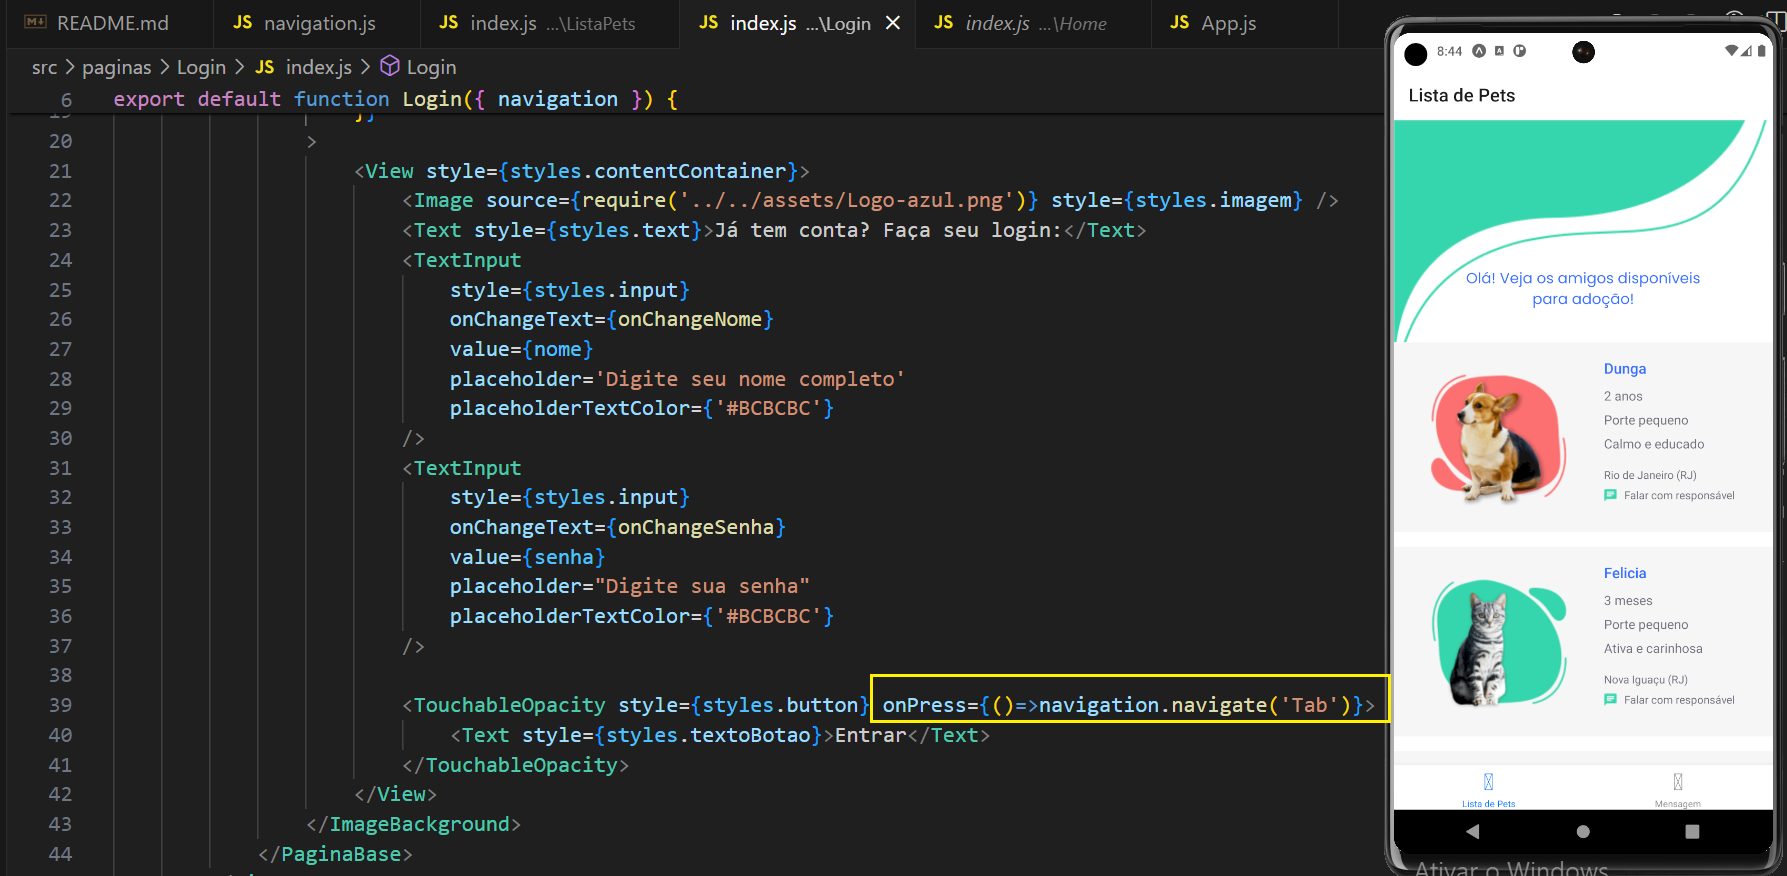
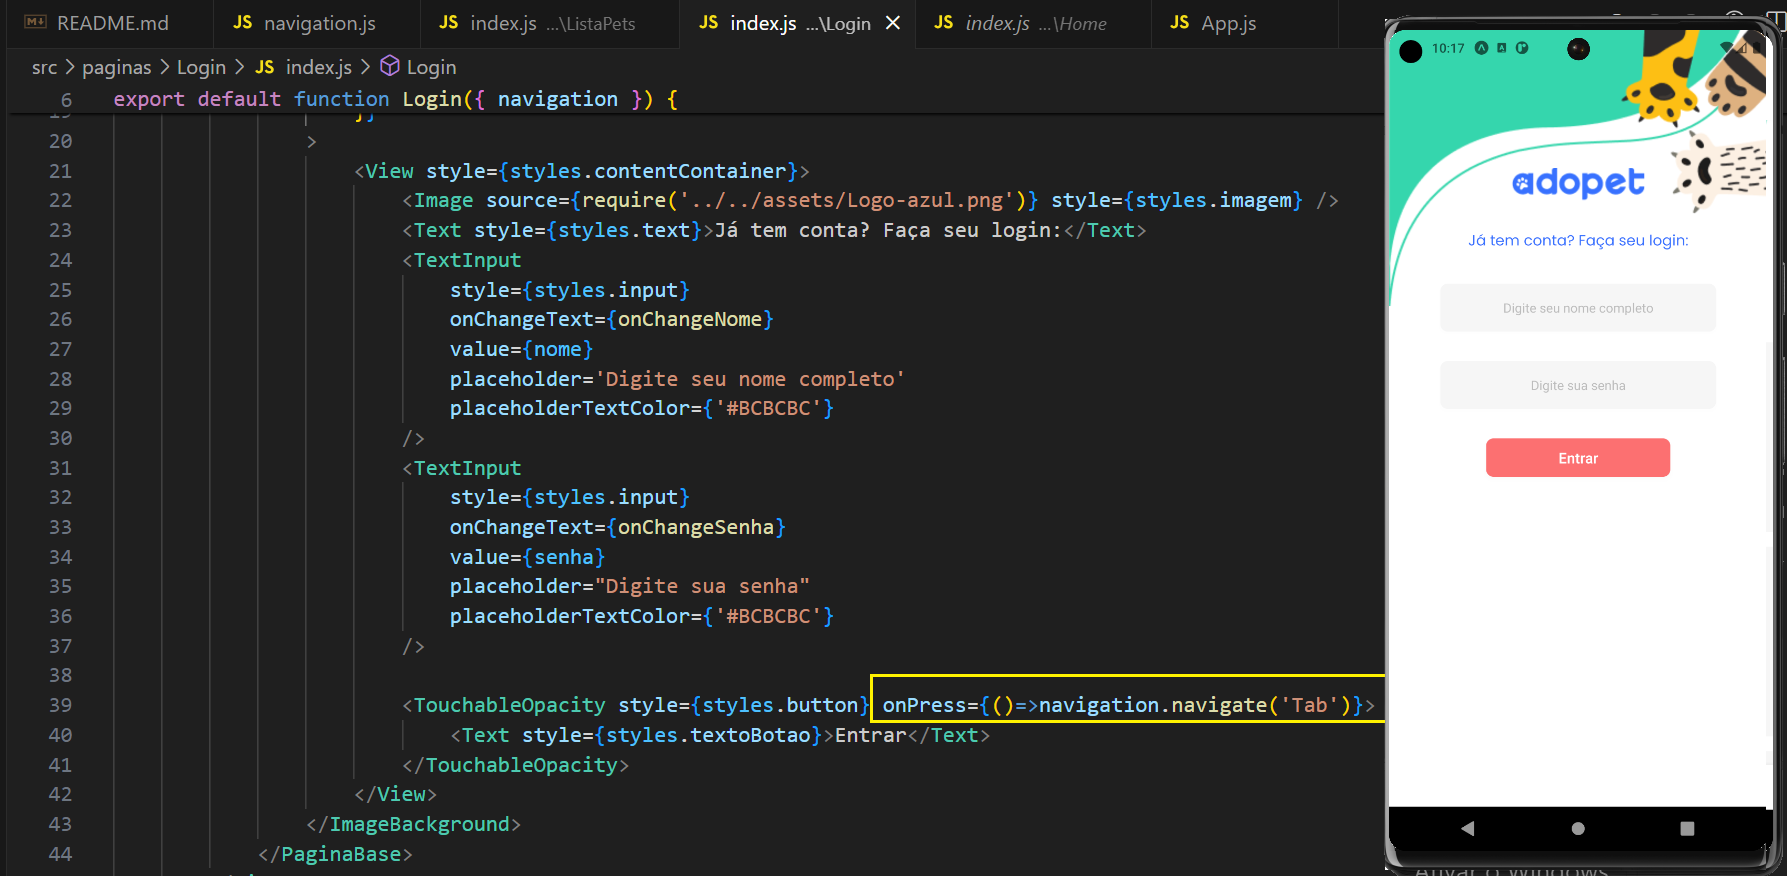
Usando elemento link e drawer

Changed region(s): [[0.7694, 0.0, 1.0, 1.0]]

diff --git a/adopet/src/rotas/navigation.js b/adopet/src/rotas/navigation.js
@@ -8,17 +8,55 @@ import ListaPets from "../paginas/ListaPets";
 import Mensagem from "../paginas/Mensagem";
 import Sobre from "../paginas/Sobre";
 import { Image } from "react-native";
+import { createDrawerNavigator } from "@react-navigation/drawer";
+import Perfil from '../paginas/Perfil';
 
 const Stack = createStackNavigator();
 const Tab = createBottomTabNavigator();
+const Drawer = createDrawerNavigator();
 
-function TabRoutes(){
-    return(
-        <Tab.Navigator screenOptions={{
-            headerShown: false
-        }}>
+function DrawerRoutes() {
+    return (
+        <Drawer.Navigator
+            screenOptions={{
+                drawerStyle: {
+                    backgroundColor: '#36D6AD'
+                },
+                drawerLabelStyle: {
+                    color: '#FFF',
+                    fontSize: 14,
+                    fontFamily: 'PoppinsRegular',
+                    fontWeight: '400',
+                    lineHeight: 20
+                }
+            }}>
+            <Drawer.Screen
+                name='Lista de Pets'
+                component={TabRoutes}
+                options={{
+                    drawerLabel: 'Pets para adoção',
+                    drawerIcon: () => (<Image source={require('../assets/pets.png')} style={{ width: 24, height: 24 }} ></Image>),
+                    headerTransparent: true,
+                    title: ''
+                }} />
+            <Drawer.Screen
+                name='Perfil'
+                component={Perfil} />
+            <Drawer.Screen
+                name='Sair'
+                component={Home} />
+        </Drawer.Navigator>
+    )
+}
 
-        <Tab.Screen name='Lista de Pets' component={ListaPets} options={{
+function TabRoutes() {
+    return (
+        <Tab.Navigator
+            screenOptions={{
+                headerShown: false
+            }}>
+            <Tab.Screen name="Lista de Pets" component={ListaPets}
+                options={{
                     tabBarIcon: () => (
                         <Image source={require('../assets/pets-green.png')} 
                         style={{ width: 24, height: 24 }} />
@@ -43,7 +81,7 @@ export default function Navigation(){
             <Stack.Screen name='Home'  component={Home}/>
             <Stack.Screen name='Login' component={Login} />
             <Stack.Screen name='Cadastro' component={Cadastro} />
-            <Stack.Screen name='Tab' component={TabRoutes} />
+            <Stack.Screen name='Drawer' component={DrawerRoutes} />
             <Stack.Screen name='Sobre' component={Sobre} />
         </Stack.Navigator>
     </NavigationContainer>

diff --git a/adopet/src/paginas/Sobre/index.js b/adopet/src/paginas/Sobre/index.js
@@ -2,10 +2,9 @@ import { View, ScrollView, StyleSheet, Image, FlatList, Text } from "react-nativ
 import PaginaBase from "../PaginaBase";
 import { Link, useRoute } from "@react-navigation/native";
 import uuid from 'react-native-uuid';
-export default function Sobre({ navigation }) {
-    const route = useRoute();
-    const { nome, imagem, descricao, localidade } = route.params;
-
+export default function Sobre() {
+    const rotas = useRoute();
+    const { nome, imagem, descricao, localidade } = rotas.params;
     return (
         <View style={styles.container}>
             <ScrollView>
@@ -35,11 +34,7 @@ export default function Sobre({ navigation }) {
 
                                 <View style={styles.containerInteracoes}>
                                     <Image source={require('../../assets/share.png')} />
-                                    <Link to={{
-                                        screen: 'Mensagem', params: {
-                                            nomePet: nome
-                                        },
-                                    }} style={styles.local}>
+                                    <Link to={'/'} style={styles.local}>
                                         Compartilhar
                                     </Link>
                                 </View>
@@ -49,7 +44,7 @@ export default function Sobre({ navigation }) {
                         <Text style={styles.textResumo}>{descricao.resumo}</Text>
 
                         {
-                            descricao.fotos.map((item) => <Image source={item} key={uuid.v4()} style={styles.image} />)
+                            descricao.fotos.map((foto) => <Image source={foto} key={uuid.v4()} style={styles.image} />)
                         }
                     </View>
 

diff --git a/adopet/src/paginas/Login/index.js b/adopet/src/paginas/Login/index.js
@@ -36,7 +36,7 @@ export default function Login({ navigation }) {
                             placeholderTextColor={'#BCBCBC'}
                         />
 
-                        <TouchableOpacity style={styles.button} onPress={()=>navigation.navigate('Tab')}>
+                        <TouchableOpacity style={styles.button} onPress={()=>navigation.navigate('Drawer')}>
                             <Text style={styles.textoBotao}>Entrar</Text>
                         </TouchableOpacity>
                     </View>

diff --git a/adopet/src/paginas/ListaPets/Card/index.js b/adopet/src/paginas/ListaPets/Card/index.js
@@ -1,7 +1,6 @@
 import { Link } from "@react-navigation/native";
-import { Image, StyleSheet, Text, View } from "react-native";
-import { TouchableOpacity } from "react-native-gesture-handler";
-
+import { Image, StyleSheet, Text, TouchableOpacity, View } from "react-native";
+ 
 export default function Card({ nome, idade, porte, imagem, caracteristicas, localidade, descricao, navigation }) {
     return (
         <View style={styles.container}>

diff --git a/adopet/src/paginas/Mensagem/index.js b/adopet/src/paginas/Mensagem/index.js
@@ -1,7 +1,7 @@
 import React from "react";
-import { StyleSheet, Text, View, TextInput, ScrollView } from "react-native";
-import { useRoute } from "@react-navigation/native";
+import { StyleSheet, Text, View, TextInput, ScrollView, TouchableOpacity } from "react-native";
 import PaginaBase from "../PaginaBase";
+import { useRoute } from "@react-navigation/native";
 
 export default function Mensagem() {
     const route = useRoute();

diff --git a/adopet/App.js b/adopet/App.js
@@ -1,7 +1,6 @@
 import 'react-native-gesture-handler';
 import React from 'react';
 import { useFonts, Poppins_400Regular } from '@expo-google-fonts/poppins';
-import Home from './src/paginas/Home';
 import Navigation from './src/rotas/navigation';
 export default function App() {
   let [fontsLoaded, fontError] = useFonts({

diff --git a/adopet/src/paginas/Perfil/index.js b/adopet/src/paginas/Perfil/index.js
@@ -1,4 +1,4 @@
-import { Image, StyleSheet, Text, View } from "react-native";
+import { Image, StyleSheet, Text, TouchableOpacity, View } from "react-native";
 import PaginaBase from "../PaginaBase";
 import { ScrollView } from "react-native-gesture-handler";
 

diff --git a/README.md b/README.md
@@ -189,3 +189,50 @@ Em "Sobre/index", repare a utilização do hook 'useRote()', necessário em 'rou
  
 
 obs: essa navegação ocorre clicando sobre a imagem do animal
+
+
+## Usando elemento link e drawer
+
+- fluxo de navegação com elemento 'link' em index.js "Sobre"
+
+ - Definir por meio do screen em que tela queremos acessar (nesse caso, a 'Mensagem'), e definimos os parâmetros através de params 
+
+
+<img src="info/sobre.links.png" alt="" style="width: 75%; display: block;"/>
+   
+
+A titulo de visualização, é usado o hook useRoute() de react-navigation/native para se ter acesso aos paramtetros que nesse caso é apenas um "nomePet" 
+
+
+
+<img src="info/mensagem.param.png" alt="" style="width: 75%; display: block;"/>
+ 
+
+- menu hamburg (drawer navigation)
+
+npm install @react-navigation/drawer
+npx expo install react-native-gesture-handler react-native-reanimated
+
+- importação na tela app.js "root" 
+
+
+<img src="info/app.import.gesture.handle.drawer.png" alt="" style="width: 75%; display: block;"/>
+
+- criar configuração em navigation/index.js 
+
+
+<img src="info/navigation.drawer.png" alt="" style="width: 75%; display: block;"/>
+
+
+- O que foi feito, integrar as telas do tab dentro do drawer, permitindo que elas possam renderizar o menu hambúrguer no topo.  
+
+Ao chegar nessa parte, o fluxo de navegação carregará as rotas que construímos dentro do DrawerRoutes, incluindo a ListaPets, o perfil e a opção de sair. A ListaPets já está integrada ao TabRoutes. Portanto, vamos renderizar o TabRoutes, iniciando assim o fluxo de navegação do tab, que incluirá tanto a tela de ListaPets quanto a tela de mensagens, permitindo alternar entre elas.
+
+- na tela de login modificamos a chamada de tab para drawer que fara a renderização na proxima tela "ListaPets"
+
+
+
+<img src="info/login.navigation.drawer.png" alt="" style="width: 75%; display: block;"/>
+
+
+Apesar da página de login estar no Stack, ele está tentando navegar para o TabRoutes. Porém, TabRoutes não pode ser acessado diretamente do Stack, porque ele já não está mais lá. Quem está lá é o Drawer.
